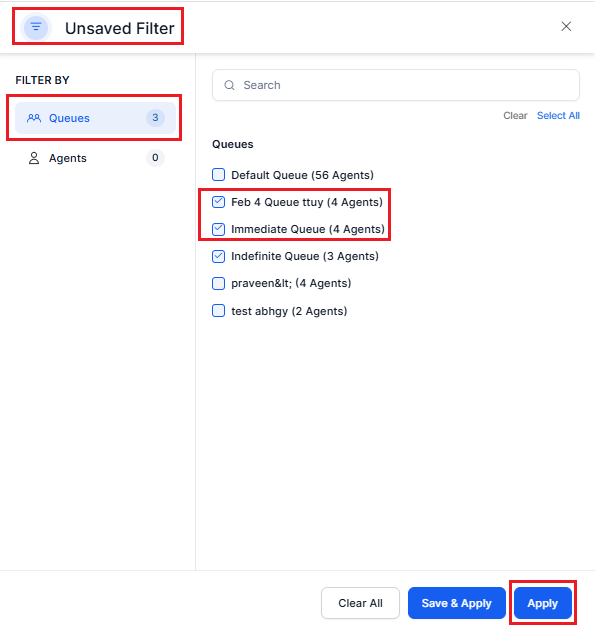
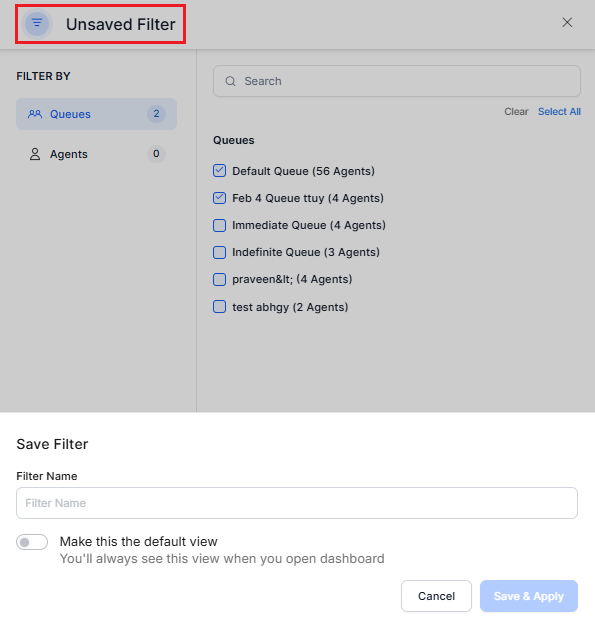
updated the conv. intelligence steps

diff --git a/docs/xo/quality-management/analyze/conversation-intelligence.md b/docs/xo/quality-management/analyze/conversation-intelligence.md
@@ -31,23 +31,20 @@ Steps to create a filter:
 2. Click **+ Add New Filter**.  
 <img src="../conversation-intelligence/images/add-new-filter.png" alt="Add New Filter" title="Add New Filter" style="border: 1px solid gray; zoom:70%;">
 
-3. On the **New Filter** window, select **Queues** or **Agents**. 
+3. On the **New Filter** window, choose the relevant options pertaining to **Queues** or **Agents**, and click **Apply**. 
 <img src="../conversation-intelligence/images/queues-filter.png" alt="Filter Options" title="Filter Options" style="border: 1px solid gray; zoom:60%;">
 
-4. Select the relevant options pertaining to **Queues** or **Agents**, as required.
-5. Click **Apply**.
-   
     !!! Note
 
-        Clicking **Apply** saves filters to the **Unsaved Filter** category for **Queues** or **Agents**, letting you review them before saving permanently.
+        Clicking **Apply** saves filters to the **Unsaved Filter** category for **Queues** or **Agents**, letting you review them before saving permanently. 
 
     <img src="../conversation-intelligence/images/unsaved-filter.png" alt="Unsaved Filter" title="Unsaved Filter" style="border: 1px solid gray; zoom:60%;">
 
-6. Click **Save & Apply** and enter the **Filter Name**.  
+4. Under the **Save Filter** section, enter the Filter Name.
+5. Enable the toggle switch **Make this the default view** for the newly added filter or save filter, and click **Save & Apply**.  
     <img src="../conversation-intelligence/images/save-filter.png" alt="Save Filter" title="Save Filter" style="border: 1px solid gray; zoom:90%;">
-
-7. Enable the toggle switch to **Make this the default vie** filter. The following successful confirmation message is displayed.  
-    <img src="../conversation-intelligence/images/save-filter.png" alt="Save Filter" title="Save Filter" style="border: 1px solid gray; zoom:90%;">
+    
+A successful confirmation message is displayed.  
 
 ### Saved Filters
 
